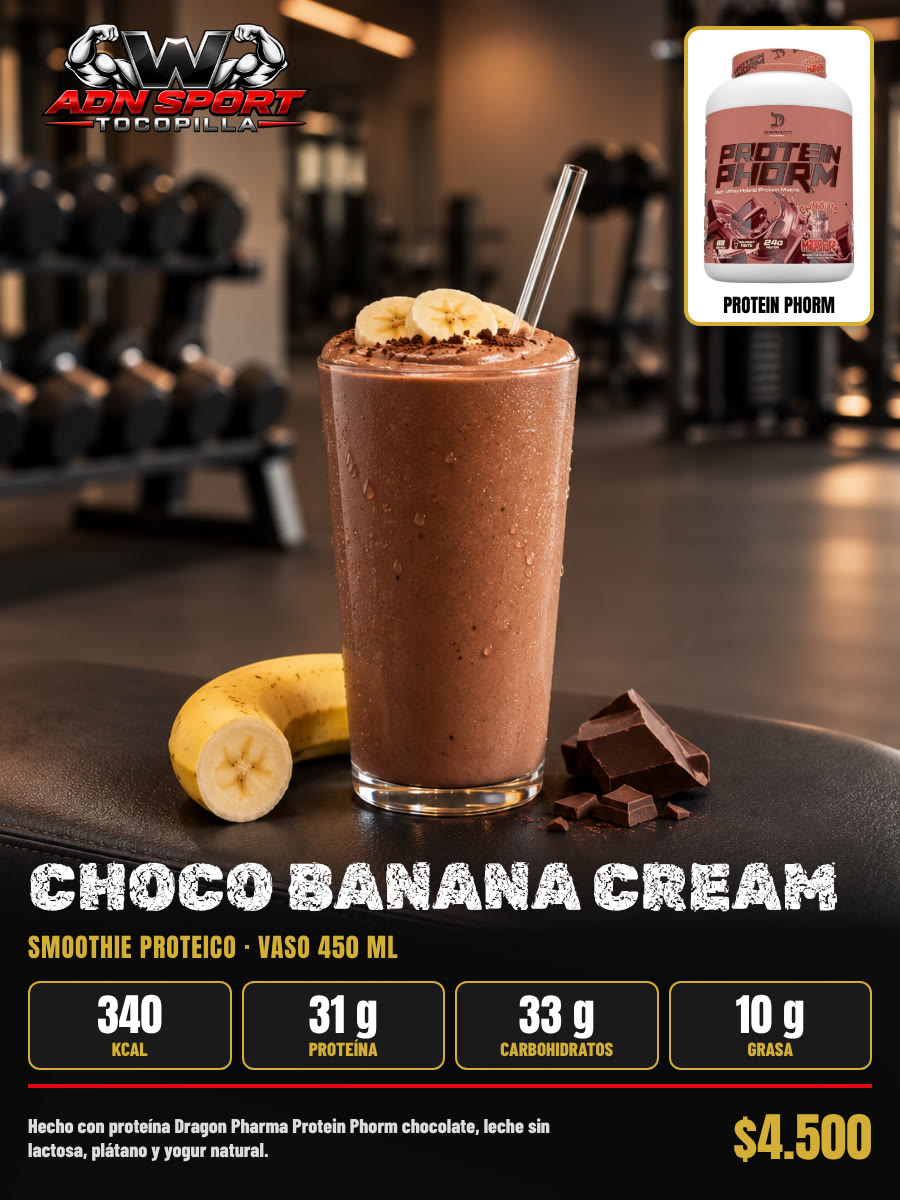
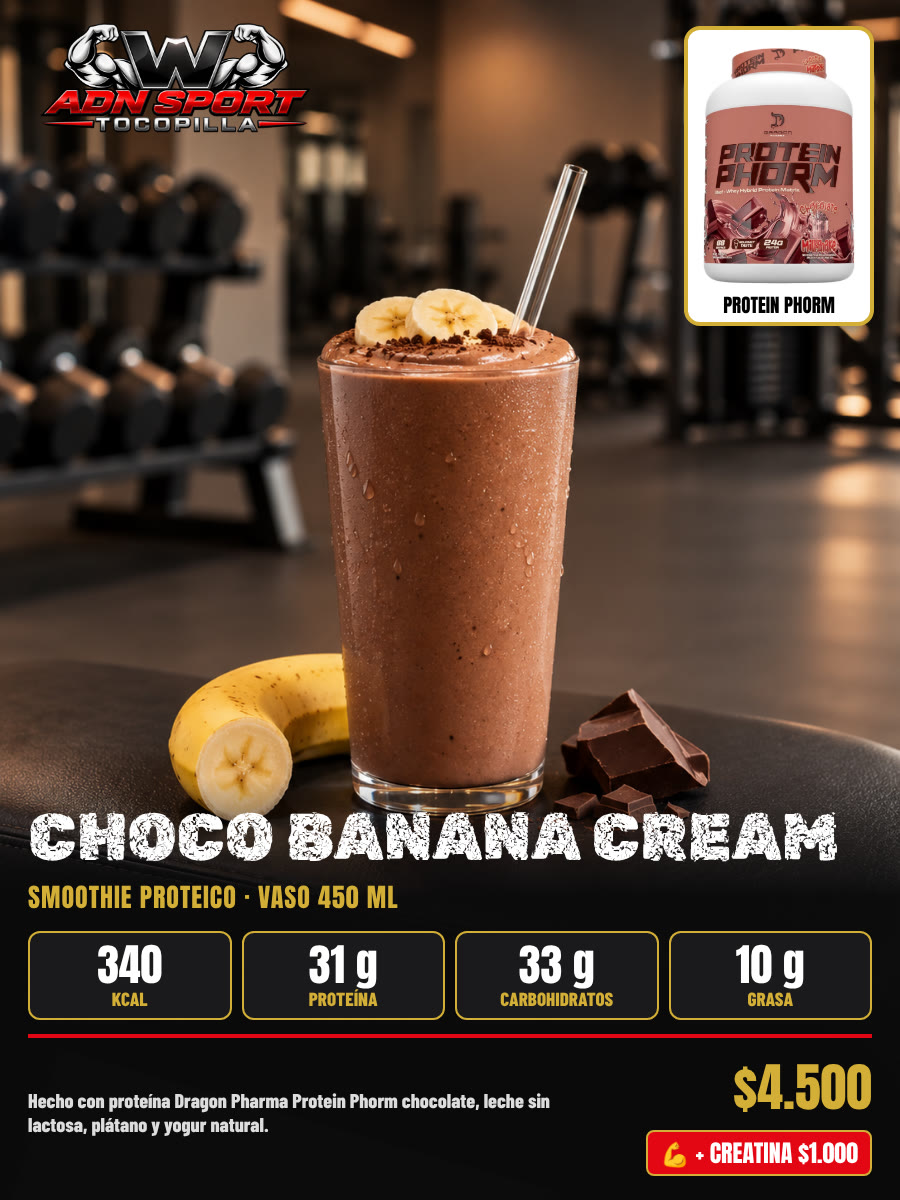
Tienda: afiche del smoothie con el adicional de creatina
Claude-Session: https://claude.ai/code/session_013ZgZPSRHEDhMsqmx8Km842

Changed region(s): [[0.0, 0.6475, 1.0, 0.9867]]

diff --git a/tienda.html b/tienda.html
@@ -261,7 +261,7 @@ function hoyISO(){ return new Intl.DateTimeFormat("en-CA", { timeZone:"America/S
 function ahoraTxt(){ var f = new Intl.DateTimeFormat("sv-SE", { timeZone:"America/Santiago", year:"numeric", month:"2-digit", day:"2-digit", hour:"2-digit", minute:"2-digit" }).format(new Date()); return f.replace("T", " ").slice(0, 16); }
 function normTxt(s){ return String(s || "").toUpperCase().normalize("NFD").replace(/[̀-ͯ]/g, ""); }
 /* Al cambiar una foto en img/tienda/ (mismo nombre), subir FOTO_V para que los teléfonos no muestren la antigua. */
-var FOTO_V = "52";
+var FOTO_V = "53";
 function fotoUrl(f){ return f ? (/^data:/.test(f) ? f : f + (f.indexOf("?") < 0 ? "?v=" + FOTO_V : "")) : ""; }
 /* 📷 Foto subida desde el celular (27-10-2026, la dueña: "¿no lo puedo hacer todo sin depender de ti?"): se achica a
    máx. 480 × 640, se le pone el logo del gimnasio arriba a la izquierda (34 % del ancho, como las demás fotos) y se guarda
@@ -536,7 +536,7 @@ setInterval(function(){ if(pend.length) enviarPendientes(); }, 30000);
    el computador"): los datos se vuelven a pedir a la planilla cada 30 s mientras la página está a la vista (sin una ficha
    abierta), y cada minuto se revisa tienda-version.txt: si hay una versión nueva de la página, se recarga sola.
    Cada vez que se cambie tienda.html, subir TIENDA_VERSION y tienda-version.txt juntos (AAAAMMDDNN). */
-var TIENDA_VERSION = "2026110506";
+var TIENDA_VERSION = "2026110507";
 setInterval(function(){ if(clave && !document.hidden && $("velo").hidden && !$("app").hidden) enviarPendientes().then(function(){ cargar(true); }); }, 30000);
 function revisarVersion(){
  fetch("tienda-version.txt?t=" + Date.now(), { cache:"no-store" }).then(function(r){ return r.ok ? r.text() : ""; }).then(function(v){

diff --git a/tarjeta.html b/tarjeta.html
@@ -2474,7 +2474,7 @@ function renderEvolucion(s){
     oculta con «Ya no lo vendo» no llega. «Lo quiero» abre una ventanita (foto grande, cantidad, total)
     y después WhatsApp a Sara con el pedido. El stock solo baja cuando ella cobra en la tienda.
     Al cambiar una foto de img/tienda/ con el mismo nombre, subir TIENDA_FOTO_V junto con FOTO_V de tienda.html. */
- var TIENDA_FOTO_V = "52", TIENDA_WSP = "56975196394", TIENDA_SITIO = "https://encaladasara363-lang.github.io/wgymadnsport-archivos/";
+ var TIENDA_FOTO_V = "53", TIENDA_WSP = "56975196394", TIENDA_SITIO = "https://encaladasara363-lang.github.io/wgymadnsport-archivos/";
  /* Interruptor (25-10-2026, la dueña: "no quiero publicar la tienda el lunes porque compré ropa en Shein y no sé
     cuándo me llegaría"): en false la tarjeta no muestra la tienda aunque la Versión 25 esté instalada.
     Ponerlo en true (y subir TARJETA_VERSION) solo cuando ella lo pida. */
@@ -2688,7 +2688,7 @@ function renderEvolucion(s){
     compara TARJETA_VERSION con tarjeta-version.txt del sitio y, si hay
     una más nueva, la página se recarga sola (el nombre ya aparece
     puesto). Al cambiar tarjeta.html, subir los DOS números juntos. */
- var TARJETA_VERSION = "2026110511", ultimaRevisionVersion = 0;
+ var TARJETA_VERSION = "2026110512", ultimaRevisionVersion = 0;
 function recargarFresco_(v){
  /* Recarga pidiendo la página nueva (11-10-2026): location.reload() podía traer la copia
     guardada del teléfono (GitHub guarda la página ~10 min) y el socio seguía con la versión

diff --git a/CLAUDE.md b/CLAUDE.md
@@ -1631,7 +1631,7 @@ productos» y «Tienda movimientos», acciones `tienda*` de `docs/apps-script/In
   de «AGOTADO»; pasados los 15 días la prenda ya no se envía.
 - **⛔ SIN STOCK (27-10-2026, la dueña: "cuando se acaba el producto tendría que salir sin stock para que mis socios sepan"):** en 📦 Inventario, todo producto (no ropa vendida, no batido que sale del tarro, no apartado) con stock 0 sale con la foto gris, sello rojo «SIN STOCK» y pastilla «⛔ SIN STOCK · repón con «Llegó mercadería»»; en la búsqueda de 🛒 Vender dice «⛔ SIN STOCK». En la vitrina de la tarjeta el sello dice «SIN STOCK» (antes «AGOTADO») con «Pronto vuelve». Vuelve solo al cargar mercadería.
 - **🍦 Categoría «Helados» (31-10-2026, la dueña mandó su catálogo de helados proteicos sin azúcar, endulzados con stevia y alulosa):** en `CATS` de `tienda.html`, `TIENDA_ICONOS` de `tarjeta.html` y `SIN_APARTAR` (no se apartan); la vitrina cerrada dice «🍦 Helados proteicos sin azúcar». 5 sabores con foto sacada de cada página del catálogo (ya traen el logo; no ponérselo encima): Manjarate (`img/tienda/helado-proteico-manjarate.jpg`, 125 g, 176 kcal · 11,9 P · 19,8 C · 5,8 G), Capuchino (110 g, 130 · 10 · 11 · 5), Tropical Coco (130 g, 143 · 9,8 · 14 · 5,3), Banana Choco Maní (130 g, 161 · 10,9 · 16,3 · 5,8; contiene maní) y Berry Cream (130 g, 126 · 9,9 · 12,3 · 3,9). Pistacho Dorado (01-11-2026, afiche aparte de la dueña; ya trae el logo: `img/tienda/helado-proteico-pistacho-dorado.jpg`; 125 g, 184 kcal · 12,5 P · 15,4 C · 8,0 G; costo $1.100, venta $2.000, 3 unidades; con proteína de vainilla; contiene leche y pistacho; el afiche no dice «sin azúcar», por eso no se puso). Pistacho Menta (02-11-2026, afiche de la dueña con el logo: `img/tienda/helado-proteico-pistacho-menta.jpg`; mismos macros que el Pistacho Dorado, 125 g, 184 kcal · 12,5 P · 15,4 C · 8,0 G; contiene leche y pistacho; 3 unidades; costo y precio como el Pistacho Dorado salvo que la dueña diga otro). Oreo proteico (02-11-2026, afiche de la dueña con el logo: `img/tienda/helado-proteico-oreo.jpg`; 130 g, 185 kcal · 12,6 P · 17,7 C · 7,1 G; con proteína de vainilla y 3 galletas tipo Oreo; contiene leche y trigo; 3 unidades; venta $1.500 como los otros). Coco Bombón proteico (02-11-2026, afiche de la dueña con el logo: `img/tienda/helado-proteico-coco-bombon.jpg`; 182 kcal · 10,0 P · 12,7 C · 10,4 G; coco, almendras y chocolate blanco; contiene leche y almendras; 3 unidades a $1.500). Moka White proteico (03-11-2026, afiche de la dueña con el logo: `img/tienda/helado-proteico-moka-white.jpg`; 154 kcal · 9,7 P · 14,3 C · 7,0 G; café y chocolate blanco; contiene leche; 3 unidades a $1.500). Avellana Manjar proteico (03-11-2026, afiche de la dueña con el logo: `img/tienda/helado-proteico-avellana-manjar.jpg`; 163 kcal · 10,0 P · 13,5 C · 7,8 G; avellanas y manjar; contiene leche y avellanas; 3 unidades a $1.500). Banana Split Nuez proteico (03-11-2026, afiche de la dueña con el logo: `img/tienda/helado-proteico-banana-split-nuez.jpg`; 137 kcal · 8,2 P · 12,3 C · 5,8 G; plátano, nueces y chocolate; contiene leche y nueces; 4 unidades a $1.500; en `TIENDA_MACROS` va antes de la regla de «banana» para no confundirse con Banana Choco Maní). Coco Vainilla proteico (04-11-2026, afiche de la dueña con el logo: `img/tienda/helado-proteico-coco-vainilla.jpg`; 140 kcal · 9,8 P · 9,4 C · 6,7 G; coco y vainilla; contiene leche; 3 unidades a $1.500; en `TIENDA_MACROS` va antes de la regla de «coco» para no confundirse con Coco Bombón). Alfajor Crunch proteico (04-11-2026, afiche de la dueña con el logo: `img/tienda/helado-proteico-alfajor-crunch.jpg`; 164 kcal · 9,4 P · 18,3 C · 6,4 G; galleta, manjar y chocolate; contiene leche, trigo y soya; 3 unidades a $1.500). Mango Chía proteico (05-11-2026, afiche de la dueña con el logo: `img/tienda/helado-proteico-mango-chia.jpg`; 111 kcal · 7,8 P · 10,7 C · 3,9 G; mango y chía; contiene leche; 5 unidades a $1.500). Selva Negra proteico (05-11-2026, afiche de la dueña con el logo: `img/tienda/helado-proteico-selva-negra.jpg`; 112 kcal · 8,6 P · 10,5 C · 3,9 G; cereza y cacao; contiene leche; 3 unidades a $1.500). Menta Chips proteico (05-11-2026, afiche de la dueña con el logo: `img/tienda/helado-proteico-menta-chips.jpg`; 140 kcal · 9,7 P · 10,6 C · 6,2 G; menta y chips de chocolate; contiene leche; 4 unidades a $1.500). Brownie Choco proteico (05-11-2026, afiche de la dueña con el logo: `img/tienda/helado-proteico-brownie-choco.jpg`; 165 kcal · 9,5 P · 14,8 C · 7,9 G; brownie y chocolate; contiene leche, trigo y huevo; 3 unidades a $1.500). **Todos los vasos son de 100 ml (02-11-2026, la dueña): en `TIENDA_MACROS` el campo `por` dice «100 ml» en todos los sabores (los gramos de los afiches eran el peso de la porción).** Los nombres de producto empiezan con «Helado proteico …» porque `TIENDA_MACROS` de la tarjeta los reconoce así (campo `por` = porción del vaso). Precio de venta $1.500 cada uno (la dueña, 31-10-2026); costo y stock por confirmar. **Un solo código para todos los sabores (31-10-2026, pedido de la dueña):** `CODIGOS_GRUPO` en `tienda.html` (`"2001500000000": "Helados"`); al escanearlo en 🛒 Vender (normal o «Escanear varias») se abre «🍦 ¿Qué sabor?» (`elegirDelGrupo`) con la foto y el stock de cada helado, y se suma el elegido (con «varias», la cámara vuelve a abrirse). No se guarda como código de ningún producto. Etiqueta impresa para el refrigerador: 2 por hoja chica de 5 × 7 cm (logo, «HELADOS · PROTEICOS SIN AZÚCAR», código, «TODOS LOS SABORES $1.500»), probada con ZXing.
-- **🥤 Smoothie proteico Choco Banana Cream (05-11-2026, reemplaza al «Batido de proteína» de Clear Protein, que la dueña ya no vende):** Smoothies, vaso de 450 ml, $4.500; receta de la dueña: 200 ml de leche entera sin lactosa, 30 g de proteína Dragon Pharma Protein Phorm chocolate milkshake (carne + whey; tarro 2.268 g a $74.000 → ≈75 smoothies, ≈$979 por 30 g), 70 g de plátano congelado, 60 g de yogur natural sin azúcar, 60 g de hielo, 0,3 g de xantana y stevia opcional; costo ≈$1.580. Foto `img/tienda/smoothie-choco-banana-cream.jpg` (afiche: foto de ChatGPT + logo + cuadro con el tarro Protein Phorm (sin «carne + whey»: a la dueña le pareció feo), para que los socios sepan qué proteína toman, + nombre en Rubik Distressed, los 4 macros en Anton y $4.500; armado con HTML y Playwright; cada sabor nuevo, igual). Macros en `TIENDA_MACROS` (`/^smoothie proteico choco banana/`): ≈340 kcal · 31 P · 33 C · 10 G, contiene leche. Lleva «💪 + Creatina $1.000» (`esBatido` en la tienda; en la tarjeta `conCrea` va solo para batidos, smoothies y el granizado: antes salía también en helados y waffle porque usaba `tvMacros_`). El ganador de masa ahora descuenta del tarro del smoothie (`USA_PORCION` base `/^(smoothie|batido de prote)/`; en la vitrina, primero el smoothie).
+- **🥤 Smoothie proteico Choco Banana Cream (05-11-2026, reemplaza al «Batido de proteína» de Clear Protein, que la dueña ya no vende):** Smoothies, vaso de 450 ml, $4.500; receta de la dueña: 200 ml de leche entera sin lactosa, 30 g de proteína Dragon Pharma Protein Phorm chocolate milkshake (carne + whey; tarro 2.268 g a $74.000 → ≈75 smoothies, ≈$979 por 30 g), 70 g de plátano congelado, 60 g de yogur natural sin azúcar, 60 g de hielo, 0,3 g de xantana y stevia opcional; costo ≈$1.580. Foto `img/tienda/smoothie-choco-banana-cream.jpg` (afiche: foto de ChatGPT + logo + cuadro con el tarro Protein Phorm (sin «carne + whey»: a la dueña le pareció feo), para que los socios sepan qué proteína toman, + nombre en Rubik Distressed, los 4 macros en Anton, $4.500 y la pastilla roja «💪 + CREATINA $1.000» bajo el precio; armado con HTML y Playwright; cada sabor nuevo, igual). Macros en `TIENDA_MACROS` (`/^smoothie proteico choco banana/`): ≈340 kcal · 31 P · 33 C · 10 G, contiene leche. Lleva «💪 + Creatina $1.000» (`esBatido` en la tienda; en la tarjeta `conCrea` va solo para batidos, smoothies y el granizado: antes salía también en helados y waffle porque usaba `tvMacros_`). El ganador de masa ahora descuenta del tarro del smoothie (`USA_PORCION` base `/^(smoothie|batido de prote)/`; en la vitrina, primero el smoothie).
 - **🍹 Categoría «Smoothies» (05-11-2026, la dueña: "una sección de smoothies… unos 10 sabores", el primero el Choco Banana Cream):** en `CATS` de `tienda.html`, `TIENDA_ICONOS` de `tarjeta.html` y `SIN_APARTAR`; la vitrina cerrada dice «🍹 Smoothies proteicos». Todos los sabores salen de las porciones del producto «Tarro de proteína …» (Suplementos, stock = porciones de 30 g; `USA_PORCION` `/^smoothie/` → `/^tarro de prote/`); el tarro no se muestra a los socios (la tarjeta lo saca de la vitrina) y cada smoothie toma su stock. Los nombres empiezan con «Smoothie proteico …»; cada sabor lleva su línea en `TIENDA_MACROS`. Un solo código para todos: `CODIGOS_GRUPO` `"2004500000001": "Smoothies"` («🍹 ¿Qué sabor?» al escanear); etiquetas de 24 por hoja de 5 × 7 pulgadas con «SMOOTHIES $4.500», leídas con ZXing. El ganador de masa también sale del tarro (`/^(tarro de prote|batido de prote)/`).
 - **🍫 Barrita Choco Maní — YA NO SE VENDE desde el 05-11-2026 (la dueña: "las barritas no las haré más"; se oculta en el inventario con «🗑 Ya no lo vendo»; no volver a ofrecerla). Era (03-11-2026, afiche de la dueña + logo arriba a la izquierda al 22 %, como la creatina: `img/tienda/barrita-choco-mani.jpg`):** Snacks, 28 g, chocolate sin azúcar con almendras y maní; costo $1.000, venta $2.000; código propio 200….
 - **🧇 Waffle de arroz, avena y dátil (05-11-2026, receta casera de la dueña, sin topping):** Snacks, 1 waffle belga de su waflera giratoria (≈130 g de masa: harina de arroz, avena, dátil, leche sin lactosa, 12 g de leche en polvo y 30 g de yogur griego por media receta, huevo, aceite de coco); costo ≈$580, venta $1.000 (ella eligió ese precio para vender más), 10 unidades, código propio 200…; foto `img/tienda/waffle-arroz-avena-datil.jpg` (ChatGPT: plato blanco con borde dorado sobre el banco negro, + logo; cambiada el mismo día, FOTO_V 51). Macros en `TIENDA_MACROS` (`/^waffle/`): ≈355 kcal · 12 P · 48 C · 13,5 G; contiene huevo y leche.
